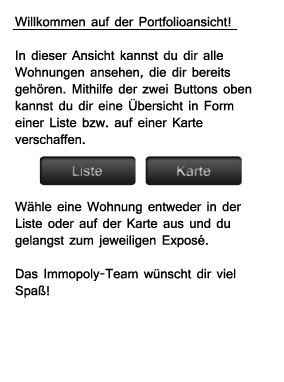
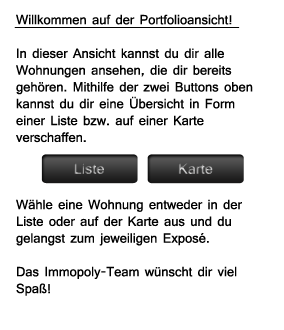
Coach Bubbles
...

Changed region(s): [[0.0563, 0.1212, 0.9014, 0.9091], [0.0563, 0.0303, 0.8451, 0.0909]]

diff --git a/ImmopolyIPhone/ImmopolyIPhone/AbstractViewController.m b/ImmopolyIPhone/ImmopolyIPhone/AbstractViewController.m
@@ -103,7 +103,7 @@
             
         case 2:
             helperTextImage = [[UIImageView alloc]initWithImage:[UIImage imageNamed:@"infotext_portfolio"]];
-            helperTextImage.frame = CGRectMake(0, 0, 284, 382);    
+            helperTextImage.frame = CGRectMake(0, 0, 284, 330);    
         break;
             
         default:
